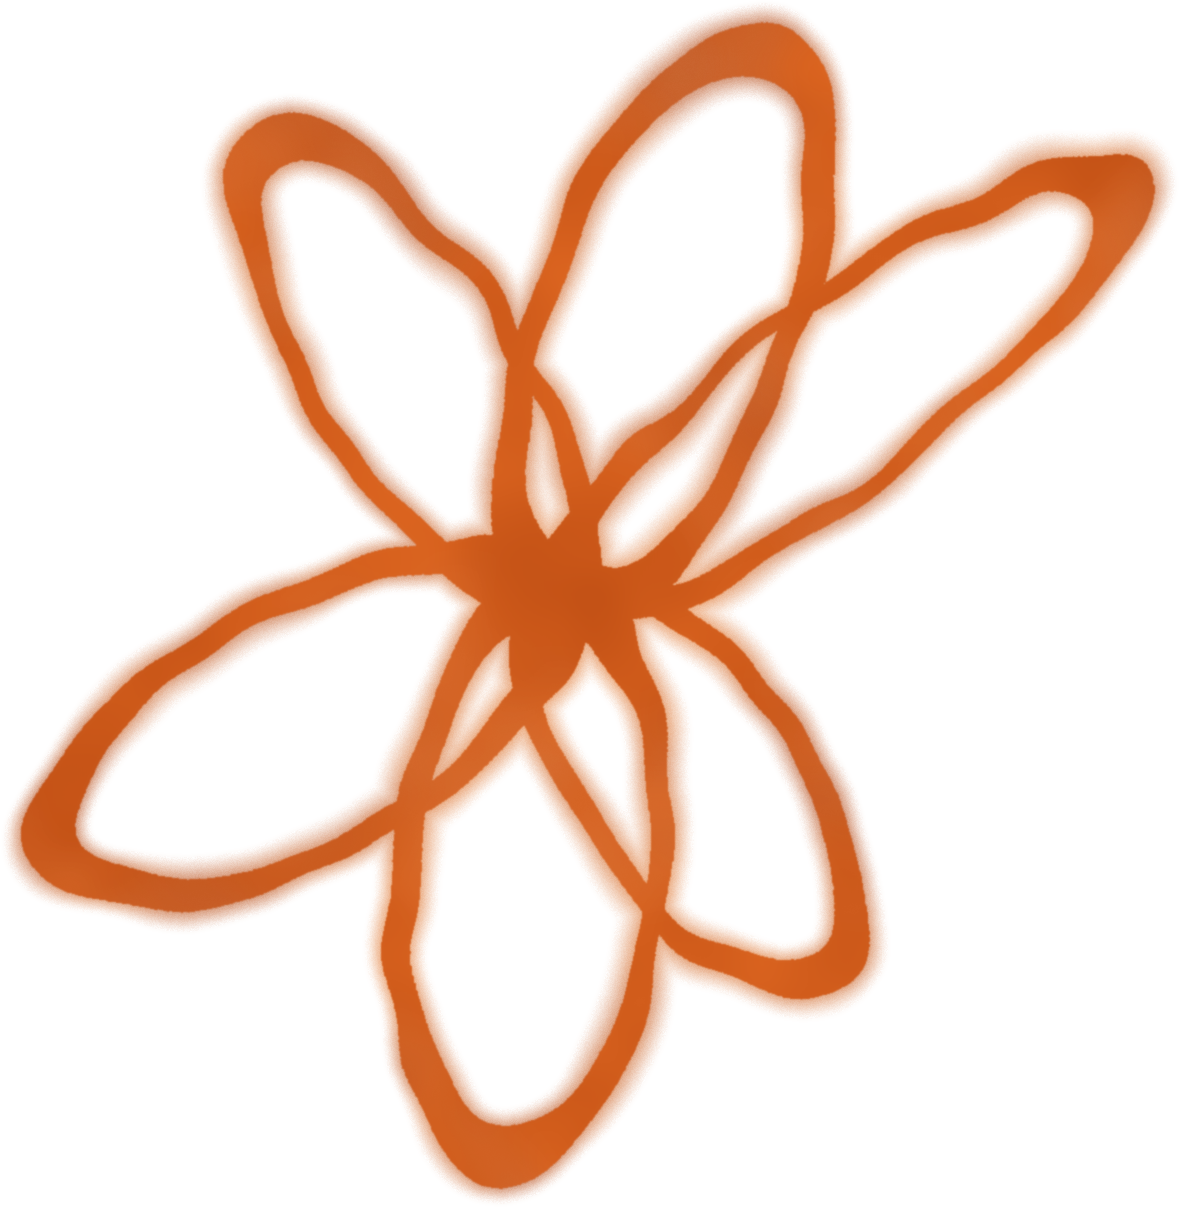
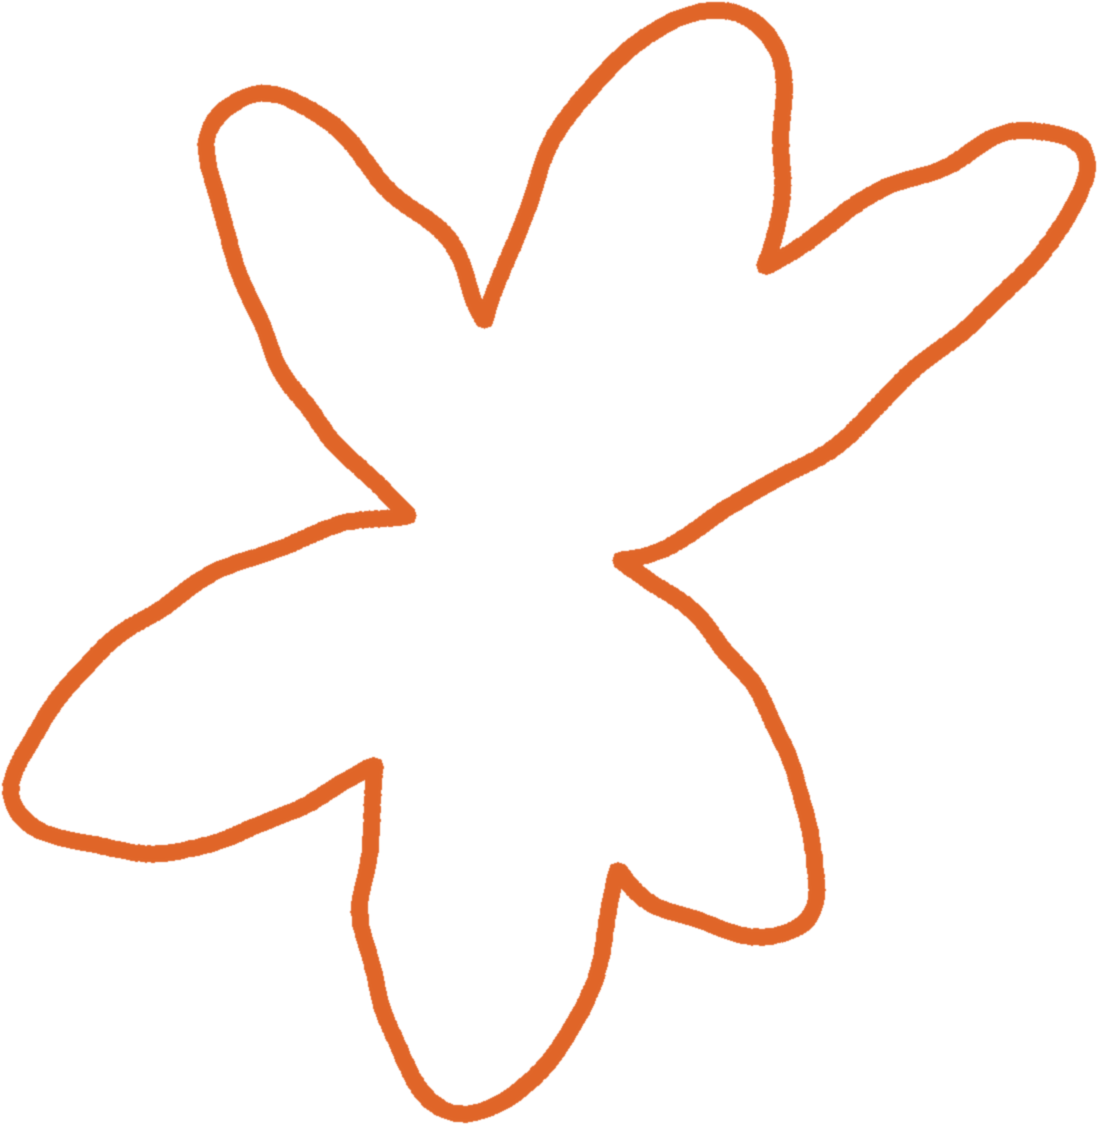
Simplify flower accent to a flat block-orange outline
Dropped the glow/gradient watercolour treatment for a flat solid
orange fill (#e06528, no blur, no tone gradient). Also removed the
tangled internal lines where the petal loops crossed near the center
— extracted just the outer silhouette contour of the whole shape via
cv2.findContours (RETR_EXTERNAL) instead, so it's one clean outline.
Bumped opacity up (0.46 -> 0.85) since a thin outline needs more
opacity than a filled shape to read as a punchy block color, and
repositioned lower to clear the lede paragraph.

Claude-Session: https://claude.ai/code/session_01HFPMNeaAPvAji3c197tfHJ

Changed region(s): [[0.0, 0.0, 1.0, 1.0]]

diff --git a/styles.css b/styles.css
@@ -156,13 +156,13 @@ main {
 .landing-accent {
   position: absolute;
   z-index: 0;
-  top: 55%;
+  top: 68%;
   left: 50%;
   transform: translate(-50%, -50%);
-  width: 88%;
-  max-width: 360px;
+  width: 74%;
+  max-width: 300px;
   height: auto;
-  opacity: 0.46;
+  opacity: 0.85;
   pointer-events: none;
 }
 

diff --git a/README.md b/README.md
@@ -36,7 +36,7 @@ Every category and item currently renders as an `image` — cropped directly out
 
 - **Colors** (`styles.css` → `:root`): deep cobalt blue background (`--bg`) with a warm tan/sand accent (`--accent`), matching the Common Ground drink-menu graphic.
 - **Wordmark**: `assets/logo-common-ground.png` started as the *actual* "COMMON GROUND" logo cropped directly out of the drink-menu photo (background keyed to transparent), then had an extra hand-drawn pass applied on top — each letter nudged/tilted slightly, a couple of offset semi-transparent stroke copies layered in for a retraced-marker texture, a gentle elastic warp for overall wobble, and noise-roughened edges — so it reads as more organic/unique than the flat photo crop. Used once per page, centered in the topbar. If you ever get a proper vector/high-res version of the real logo, swap this file out (keep the same filename, or update the `<img src>` references in `index.html`/`menu.html`).
-- **Landing page accent**: `assets/watercolor-flower.png` — a loose, hand-drawn-style loop-petal flower (procedurally generated to match a reference image) rendered as a watercolour wash in orange tones against the navy, for contrast against the site's usual tan accent. Sits centered behind the hero content on `index.html` (`.landing-accent` in `styles.css`) at low opacity, just to fill the page's empty space — adjust `top`/`left`/`width`/`opacity` there to reposition, or swap the file for a different accent entirely. `assets/watercolor-cup.png` (the coffee cup sketch from the menu photo, same watercolour technique in tan tones) is still in the repo, unused, if you'd rather switch back to it or use both.
+- **Landing page accent**: `assets/watercolor-flower.png` — a loose, hand-drawn loop-petal flower, its proportions measured directly off a reference photo (angle/length/width per petal), scaled up and thickened, run through an elastic warp for a hand-drawn wobble, then reduced to just its outer silhouette (no crossing lines through the middle) and filled flat solid orange (`#e06528`) — a block color, not a soft watercolour wash. Sits centered behind the hero content on `index.html` (`.landing-accent` in `styles.css`) at high opacity so the orange reads punchy against the navy — adjust `top`/`left`/`width`/`opacity` there to reposition, or swap the file for a different accent entirely. `assets/watercolor-cup.png` (an earlier soft-watercolour coffee cup treatment, in tan tones) is still in the repo, unused, if you'd rather switch back to it or use both.
 - **Fonts**: `Fraunces` (serif) for headlines/questions/price, `Inter` for body copy, labels, and buttons. `Caveat` (handwritten script) is the fallback font for any drinks-menu text that doesn't have a cropped photo (see above); it was originally used site-wide but pulled back after it read as too much everywhere else. All self-hosted as `.woff2` files in `assets/fonts/` (see `LICENSES.md` there) rather than loaded from Google Fonts, so the site never depends on an external font CDN to look right.
 
 ### Deploying
